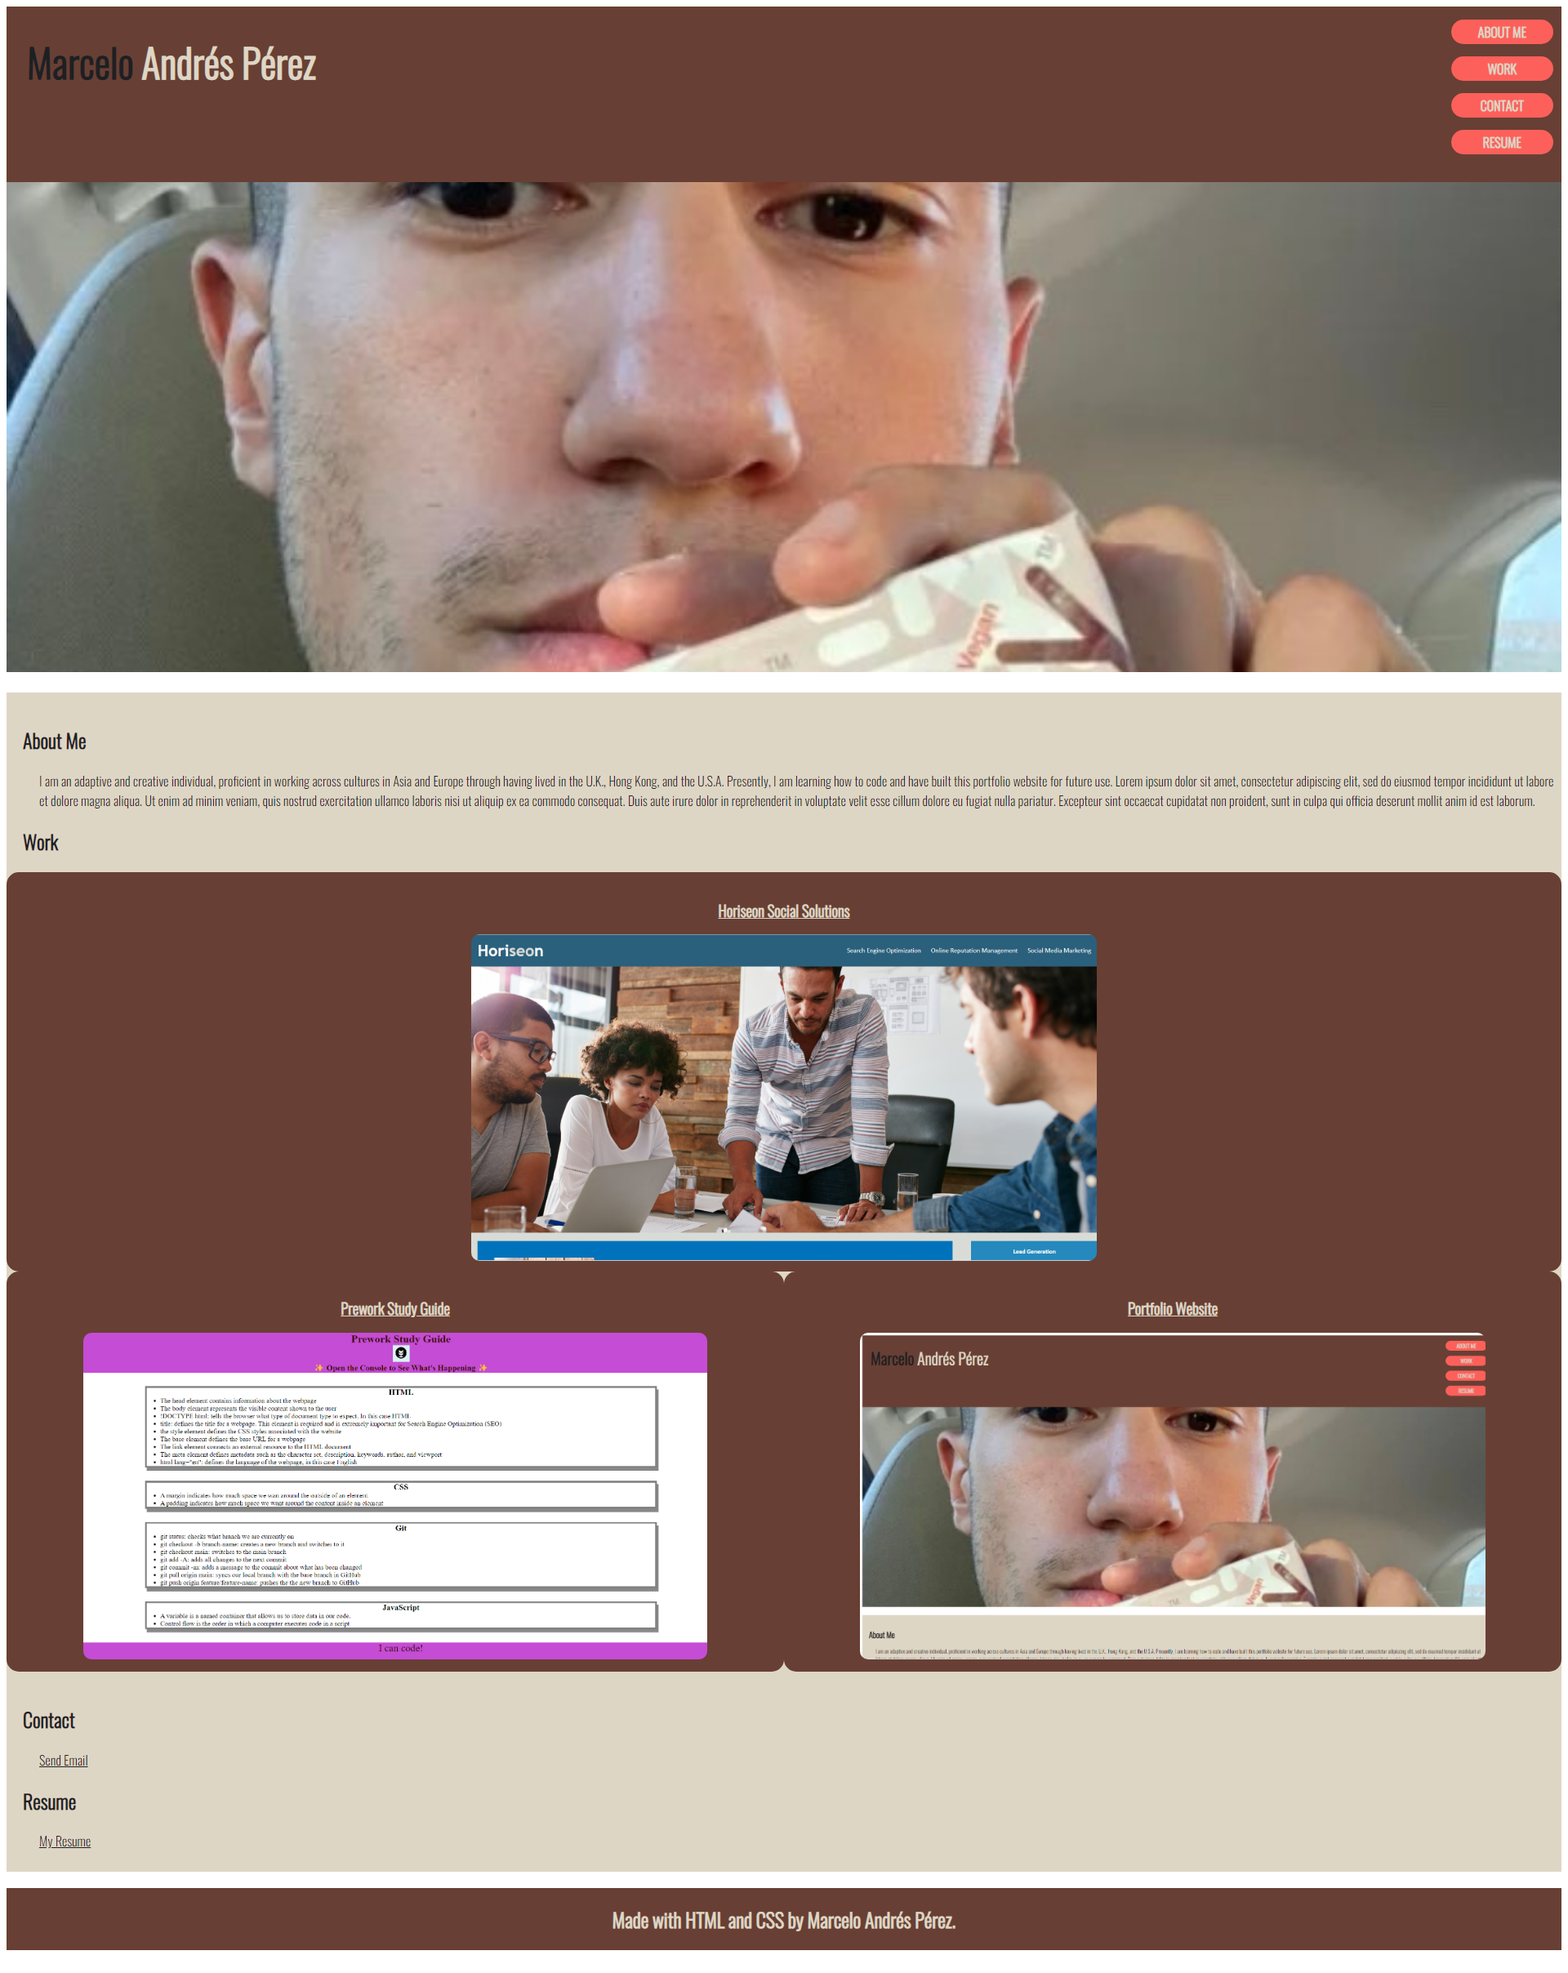
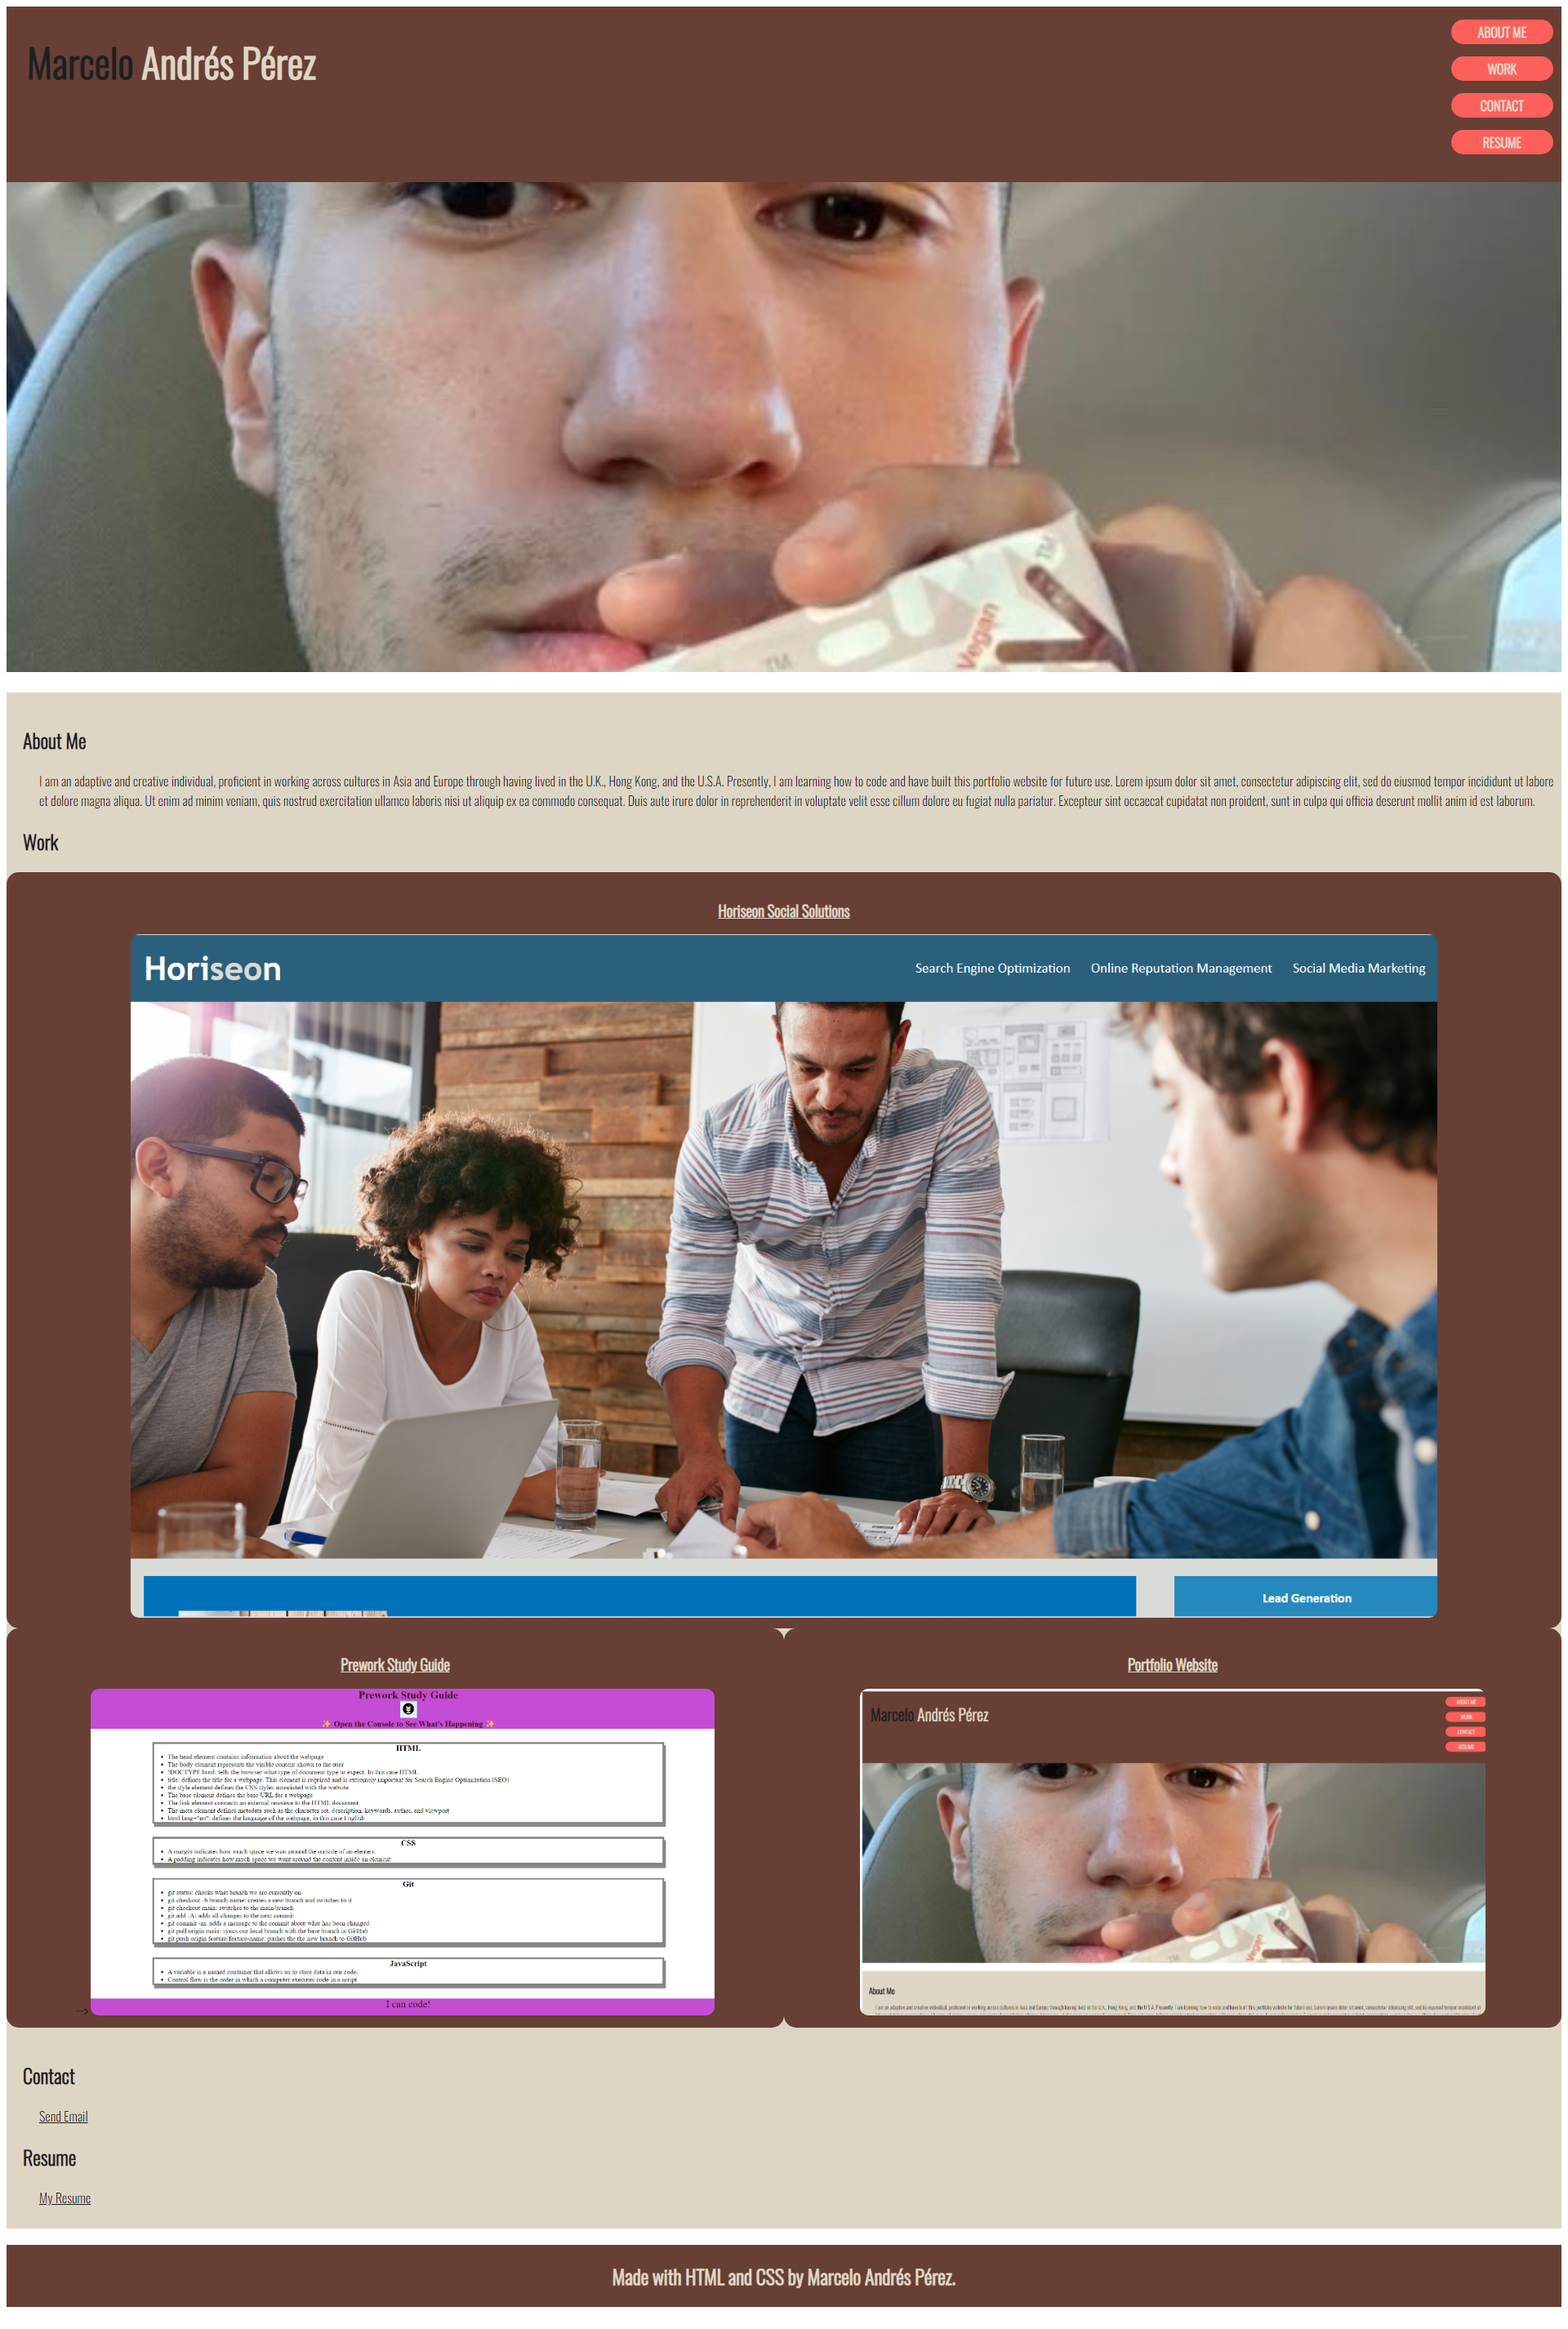
Changed the max width for the first post so it is larger than the other images and took a new screenshot to add to the README

diff --git a/Assets/style.css b/Assets/style.css
@@ -122,7 +122,11 @@ a:visited {
     color: var(--main);
 }
 
-.img-1,
+.img-1 {
+    max-width: 1600px;
+    /* The max width here is different from the second and third image so that it is larger than images 1 and 2. */
+}
+
 .img-2,
 .img-3 {
     max-height: 400px;
